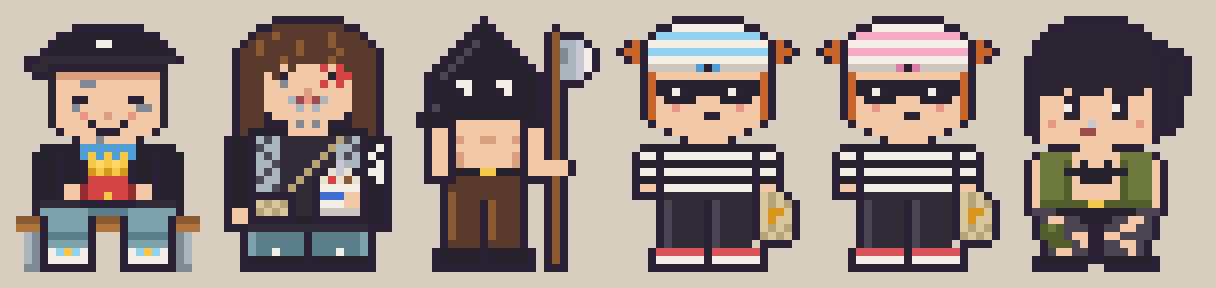
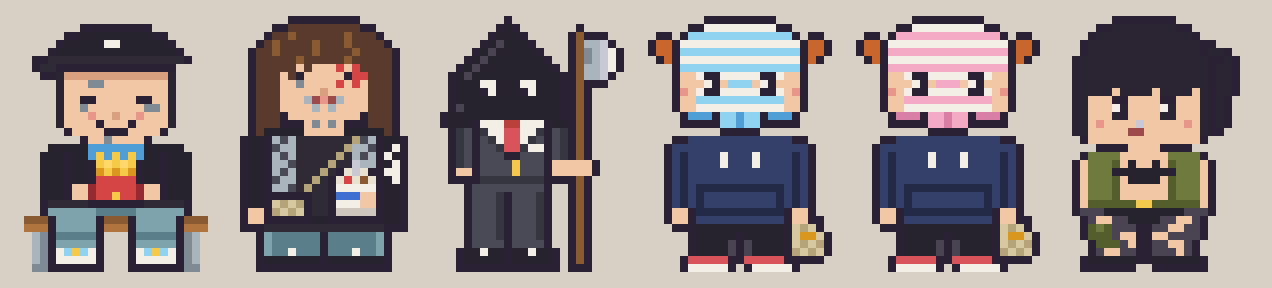
Draft sprites: executioner as HR in a suit, thief girl with panties over the whole face and a hoodie
Claude-Session: https://claude.ai/code/session_019AN7EW7NyvBUgitrzPHhFS

diff --git a/drafts/workers-code-palach-thief.js b/drafts/workers-code-palach-thief.js
@@ -1,4 +1,4 @@
-// Черновик сотрудников: code10 (14), code80 (15), Палач (16), Воришка (17). В игру ещё не вставлены, ждут одобрения. Перки и скиллы ещё обсуждаются (docs/employees.md, раздел «План: code10/code80, Палач, Воришка»).
+// Черновик сотрудников: code10 (14), code80 (15), Палач (16), Воришка (17). В игру ещё не вставлены. Спрайты Палача и Воришки одобрены, code10 и code80 ждут одобрения. Перки и скиллы ещё обсуждаются (docs/employees.md, раздел «План: code10/code80, Палач, Воришка»).
 // Спрайты 23×32, RLE как в game/index.html. Превью drafts/code-palach-thief-preview.png (Воришка в двух цветах, справа для сравнения Ворона). Новых цветов в PAL нет.
 
 // ===== code10: сидит на деревянной лавочке. Чёрная кепка набок с белым значком, короткие тёмные волосы, тату на лице, довольная улыбка с прищуром. Чёрное худи нараспашку поверх голубой клетчатой рубашки, на коленях красная коробка картошки фри, светлые джинсы, белые кроссовки с голубым и жёлтым =====
@@ -7,9 +7,9 @@
 // ===== code80: длинные лохматые каштановые волосы с чёлкой до глаз, красный крестик-тату на правом глазу, серые тату на лице, тату на шее, пирсинг на губе и под губой. Чёрное худи с белыми готическими буквами на рукаве, серый шарф с узором, бежевая сумка через плечо, в руке стаканчик мороженого с ложкой (макфлури, без логотипа), джинсы, чёрные кроссовки =====
   const CODE80 = ['7.9k7.', '5.2k9B2k5.', '4.k2BC6BC3Bk4.', '3.kBC4BC3BC4Bk3.', '2.k2BC4BC4BC4Bk2.', '2.k5BC5BC5Bk2.', '2.k5BsB3s$s$4Bk2.', '2.k3BsBk5sk2$3Bk2.', '2.k3B2sA4s$s$s3Bk2.', '2.k3B5sS5s3Bk2.', '2.k3B3samcma3s3Bk2.', '2.k3B4sasa4s3Bk2.', '2.k3Bk9sk3Bk2.', '2.k3B3ksAsAs3k3Bk2.', '2.kBb4b5s4bbBk2.', '.k2bkaga7NFgak2bk.', '.k2bkgaa6NFaagkbwk.', '.k2bkaga5NFNagakwbk.', '.k2bkaag4NF2Npaakbwk.', '.k2bkaga3NFNkxpxkkwwk.', '.k2bkgaa2NFNkx$xCxkbwk.', '.k2bkaagNF2Nk5wk2bk.', '.k2b6k2Nk3@2sk2bk.', '.k2bkfFfFk2Nk3w2sk2bk.', '.k2skFfFfk2Nk5Dk2bk.', '.k2s6k2b7k2bk.', '.3k15N3k.', '3.kT6tk6tTk3.', '3.kT6tk6tTk3.', '3.kT2tw3tk3tw2tTk3.', '3.k7bk7bk3.', '3.17k3.'];
 
-// ===== Палач: чёрный остроконечный капюшон с прорезями для глаз, голый торс, ремень с золотой пряжкой, коричневые штаны, чёрные сапоги. Держит большой топор, топорище до земли =====
-  const PALACH = ['8.k7.7.', '7.kbk6..k5.', '6.k3bk5.kC3k2.', '5.kbV3bk4.kCaapk.', '4.kbV5bk3.kCAapwk', '3.kbV7bk2.kCAapwk', '2.kbV9bk.kCaapwk', '.kbV11bkkCaapk.', '.k3b2w3b2w3bkkC3k2.', '.k3bkw3bkw3bkkCk4.', '.k13bkkCk4.', '.kV12bkkCk4.', 'k14bkkCk4.', 'k3bk8sk2bkCk4.', '.k2sk8sk2skCk4.', '.k2skS2s2S2sSk2skCk4.', '.k2sk8sk2skCk4.', '.k2skS6sSk2skCk4.', '.k2skS6sSk2s3sk3.', '.k2sk3b2Z3bk2s3sk3.', '.4k8B3kkCk4.', '3.k9Bk2.kCk4.', '3.kC8Bk2.kCk4.', '3.kC3BkC3Bk2.kCk4.', '3.kC3BkC3Bk2.kCk4.', '3.kC3BkC3Bk2.kCk4.', '3.kC3BkC3Bk2.kCk4.', '3.kC3BkC3Bk2.kCk4.', '3.k4BkB3Bk2.kCk4.', '2.k5bk5bk.kCk4.', '2.k5bk5bk.kCk4.', '2.13k.3k4.'];
+// ===== Палач-кадровик (он «увольняет»): чёрный остроконечный капюшон с прорезями для глаз, серый костюм, белая рубашка, красный галстук, серые брюки, чёрные туфли с бликом. Держит большой топор, топорище до земли =====
+  const PALACH = ['8.k14.', '7.kbk7.k5.', '6.k3bk5.kC3k2.', '5.kbV3bk4.kC2apk.', '4.kbV5bk3.kCAapwk', '3.kbV7bk2.kCAapwk', '2.kbV9bk.kC2apwk', '.kbV11b2kC2apk.', '.k3b2w3b2w3b2kC3k2.', '.k3bkw3bkw3b2kCk4.', '.k13b2kCk4.', '.kV12b2kCk4.', 'k14b2kCk4.', 'k3bk3w2r3wk2bkCk4.', '.kGgkG2w2R2wGkgGkCk4.', '.kGgkgGw2RwGgkgGkCk4.', '.kGgk2gG2RG2wkgGkCk4.', '.kGgk3g2k3gkgGkCk4.', '.kGgk4gq3gk5sk3.', '.k2sk4gq3gk5sk3.', '.4k8G4kCk4.', '3.k9gk2.kCk4.', '3.k3gGk3gGk2.kCk4.', '3.k3gGk3gGk2.kCk4.', '3.k3gGk3gGk2.kCk4.', '3.k3gGk3gGk2.kCk4.', '3.k3gGk3gGk2.kCk4.', '3.k3gGk3gGk2.kCk4.', '3.k4gk4gk2.kCk4.', '2.k2bw2bk2bw2bk.kCk4.', '2.k5bk5bk.kCk4.', '2.13k.3k4.'];
 
-// ===== Воришка (она): на голове белые трусики в голубую полоску с бантиком, рыжие хвостики торчат из дырок для ног. Чёрная маска на глазах, румянец, полосатая кофта, чёрные штаны, красные кеды, в руке мешок с добычей.
+// ===== Воришка (она): белые трусики в голубую полоску натянуты на голову и закрывают всё лицо, видны только глаза в прорезях и щёки по бокам с румянцем. Резинка с бантиком у подбородка, рыжие хвостики торчат из дырок для ног. Тёмно-синее худи с карманом-кенгуру и шнурками, чёрные легинсы, красные кеды, в руке мешок с монетой.
 // Цвет полосок меняется от соседей по шкафчику: голубые как есть, розовые через замену цветов (как скины Кастомки): spriteCanvas(THIEF, null, { '?': PAL.l, _: PAL.z }) =====
-  const THIEF = ['7.9k7.', '5.2k9w2k5.', '4.k13?k4.', '.k-k15wk-k.', 'k2-k15?k2-k', '.k-k15wk-k.', '3.k6D_k_6Dk3.', '3.k-13s-k3.', '3.k-13b-k3.', '3.k-2bwk5bwk2b-k3.', '3.k-s4b3s4bs-k3.', '3.k-2sc7sc2s-k3.', '3.k-6s2k5s-k3.', '4.k13sk4.', '6.k9sk6.', '8.k5sk8.', '3.k15bk3.', '2.k2wk11wk2wk2.', '2.k2bk11bk2bk2.', '2.k2wk11wk2wk2.', '2.k2bk11bk2bk2.', '2.k2sk11wk2sk2.', '2.4k11NkfFfk.', '5.kV4NkV4NkfFfFk', '5.kV4NkV4NkfXXfk', '5.kV4NkV4NkfXffk', '5.kV4NkV4NkfFfFk', '5.kV4NkV4NkFfFfk', '5.kV4NkV4N.4k.', '4.k6Rk6Rk4.', '4.k6wk6wk4.', '4.15k4.'];
+  const THIEF = ['7.9k7.', '5.2k9w2k5.', '.2k.k13?k.2k.', 'k2-k15wk2-k', 'k2-k15?k2-k', '.k-k15wk-k.', '3.k15?k3.', '3.k2sw2k5w2kw2sk3.', '3.k3swks3?swk3sk3.', '3.kcsw2k5w2kwsck3.', '3.k2s11?2sk3.', '3.k2s11w2sk3.', '4.k3_k2?_2?k3_k4.', '4.5k2?_2?5k4.', '9.5k9.', '3.2k13,2k3.', '2.k17,k2.', '2.k,"4,w3,w4,",k2.', '2.k,"4,w3,w4,",k2.', '2.k,"13,",k2.', '2.k,"13,",k2.', '2.k,",11",",k2.', '2.k,","9,",",k2.', '2.k,","9,",",k2.', '2.k2sk11"k2sk2.', '2.k2sk11,k2s2k.', '3.3k11bkfFfk.', '5.k5bk5bkf2Xfk', '5.k4bVkV4bkfFfFk', '5.k4bVkV4bkFfFfk', '4.k5R2k5R5k.', '4.k5wk.k5wk4.'];

diff --git a/docs/employees.md b/docs/employees.md
@@ -162,11 +162,11 @@
 - **Трёхглазик** (12, пришелец из «Истории игрушек», референс от игрока, имя временное: «Пришелец» в игре уже есть): салатовая голова с антенной-шариком, три глаза, улыбка. Фиолетовый воротник, голубой комбинезон, тёмно-синий пояс, жёлтая эмблема на груди, руки в стороны, синие ботинки.
 - **Гастритер** (13, референс человеческой половины от игрока): наполовину парень, наполовину зелёное чудище-гастрит, связан со спортивным катанием на самокате. Слева парень: лохматые каштановые волосы, солнечные очки на макушке, улыбка, чёрная футболка, ремень сумки через плечо, джинсы, белые кеды. Справа гастрит: бугристая голова, один жёлтый глаз, пасть с зубами, капает кислота, воспалённые красные пятна, когти. Стоит на трюковом самокате с красной декой, лапа гастрита держит руль. Из-за самоката тело на 4 пикселя короче, кадр тот же 23×32.
 
-## План: code10/code80, Палач, Воришка (спрайты ждут одобрения)
+## План: code10/code80, Палач, Воришка (спрайты Палача и Воришки одобрены, code10 и code80 ждут одобрения)
 
 Спрайты в `drafts/workers-code-palach-thief.js`, превью `drafts/code-palach-thief-preview.png` (Воришка в двух цветах, справа для сравнения Ворона). Новых цветов в `PAL` нет. Перки, скиллы, статы и когда приходят, ещё обсуждаются.
 
 - **code10** (14, рэпер, референс от игрока): тот же человек, что code80 (Юрий Матюшевский, русский SoundCloud-рэп), отличаются любимой едой: code10 больше любит картошечку. Сидит на деревянной лавочке. Чёрная кепка набок с белым значком, тату на лице, довольная улыбка с прищуром, чёрное худи нараспашку поверх голубой клетчатой рубашки, на коленях красная коробка картошки фри, светлые джинсы, белые кроссовки с голубым и жёлтым. Сидит, поэтому ниже остальных, лавочка входит в кадр 23×32.
 - **code80** (15, референс от игрока): больше любит макфлури. Длинные лохматые каштановые волосы с чёлкой до глаз, красный крестик-тату на правом глазу, серые тату на лице, тату на шее, пирсинг на губе и под губой. Чёрное худи с белыми готическими буквами на рукаве, серый шарф с узором, бежевая сумка через плечо, в руке стаканчик мороженого с ложкой (без логотипа), джинсы, чёрные кроссовки.
-- **Палач** (16): чёрный остроконечный капюшон с прорезями для глаз, голый торс, ремень с золотой пряжкой, коричневые штаны, чёрные сапоги, большой топор, топорище до земли.
-- **Воришка** (17, она): на голове белые трусики в полоску с бантиком, рыжие хвостики торчат из дырок для ног. Чёрная маска на глазах, полосатая кофта, чёрные штаны, красные кеды, мешок с добычей. Цвет полосок (голубой или розовый) меняется от соседей по шкафчику, розовый делается заменой цветов, как скины Кастомки.
+- **Палач** (16): палач-кадровик, он «увольняет» (идея для перка: увольнение или замена сотрудников). Чёрный остроконечный капюшон с прорезями для глаз, серый костюм, белая рубашка, красный галстук, серые брюки, чёрные туфли, большой топор, топорище до земли. Отклонённый вариант: палач ОТК в красном капюшоне и кожаном фартуке, «казнит брак».
+- **Воришка** (17, она): белые трусики в полоску натянуты на голову и закрывают всё лицо, видны только глаза в прорезях и щёки по бокам с румянцем. Резинка с бантиком у подбородка, рыжие хвостики торчат из дырок для ног. Тёмно-синее худи с карманом-кенгуру, чёрные легинсы, красные кеды, мешок с добычей. Цвет полосок (голубой или розовый) меняется от соседей по шкафчику, розовый делается заменой цветов, как скины Кастомки.
